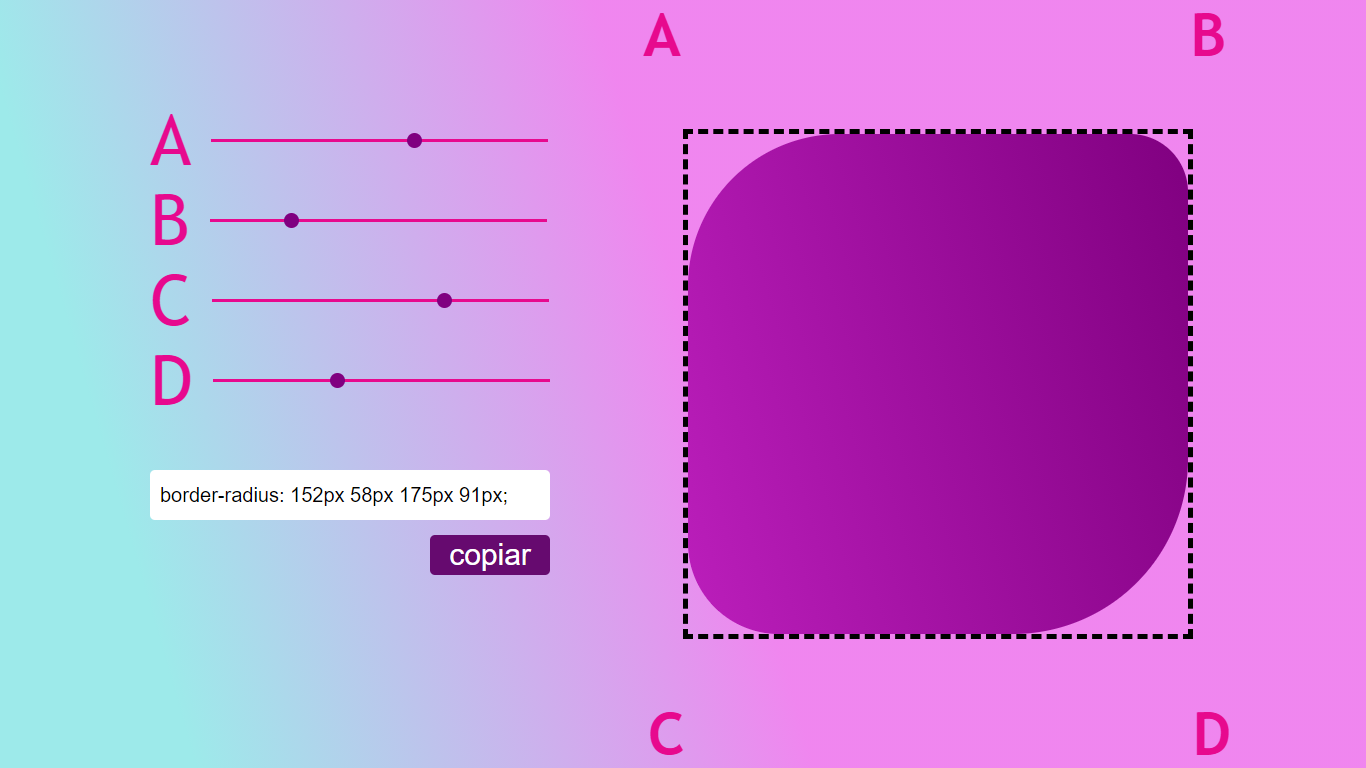
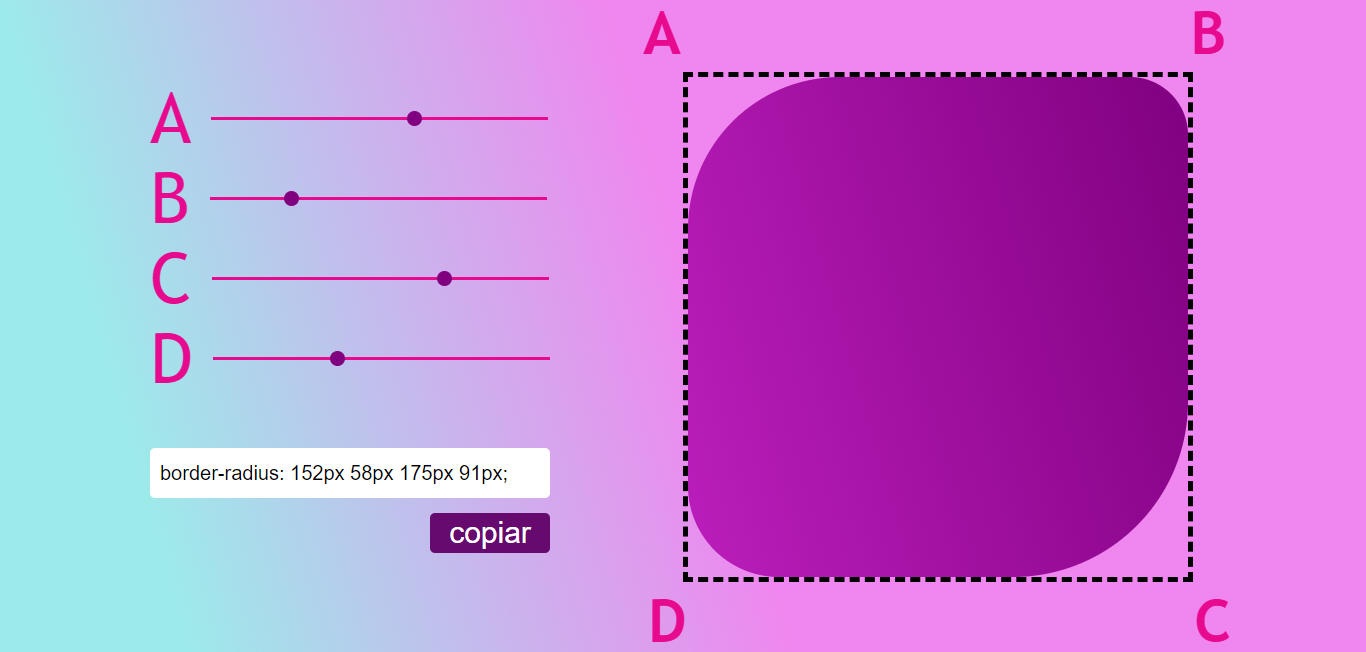
Update readme+index

diff --git a/Border-radius Previewer/index.html b/Border-radius Previewer/index.html
@@ -40,8 +40,8 @@
             </div>
             <h1 class="letter-A">A</h1>
             <h1 class="letter-B">B</h1>
-            <h1 class="letter-C">C</h1>
-            <h1 class="letter-D">D</h1>
+            <h1 class="letter-C">D</h1>
+            <h1 class="letter-D">C</h1>
         </div>
     </body>
 </html>
